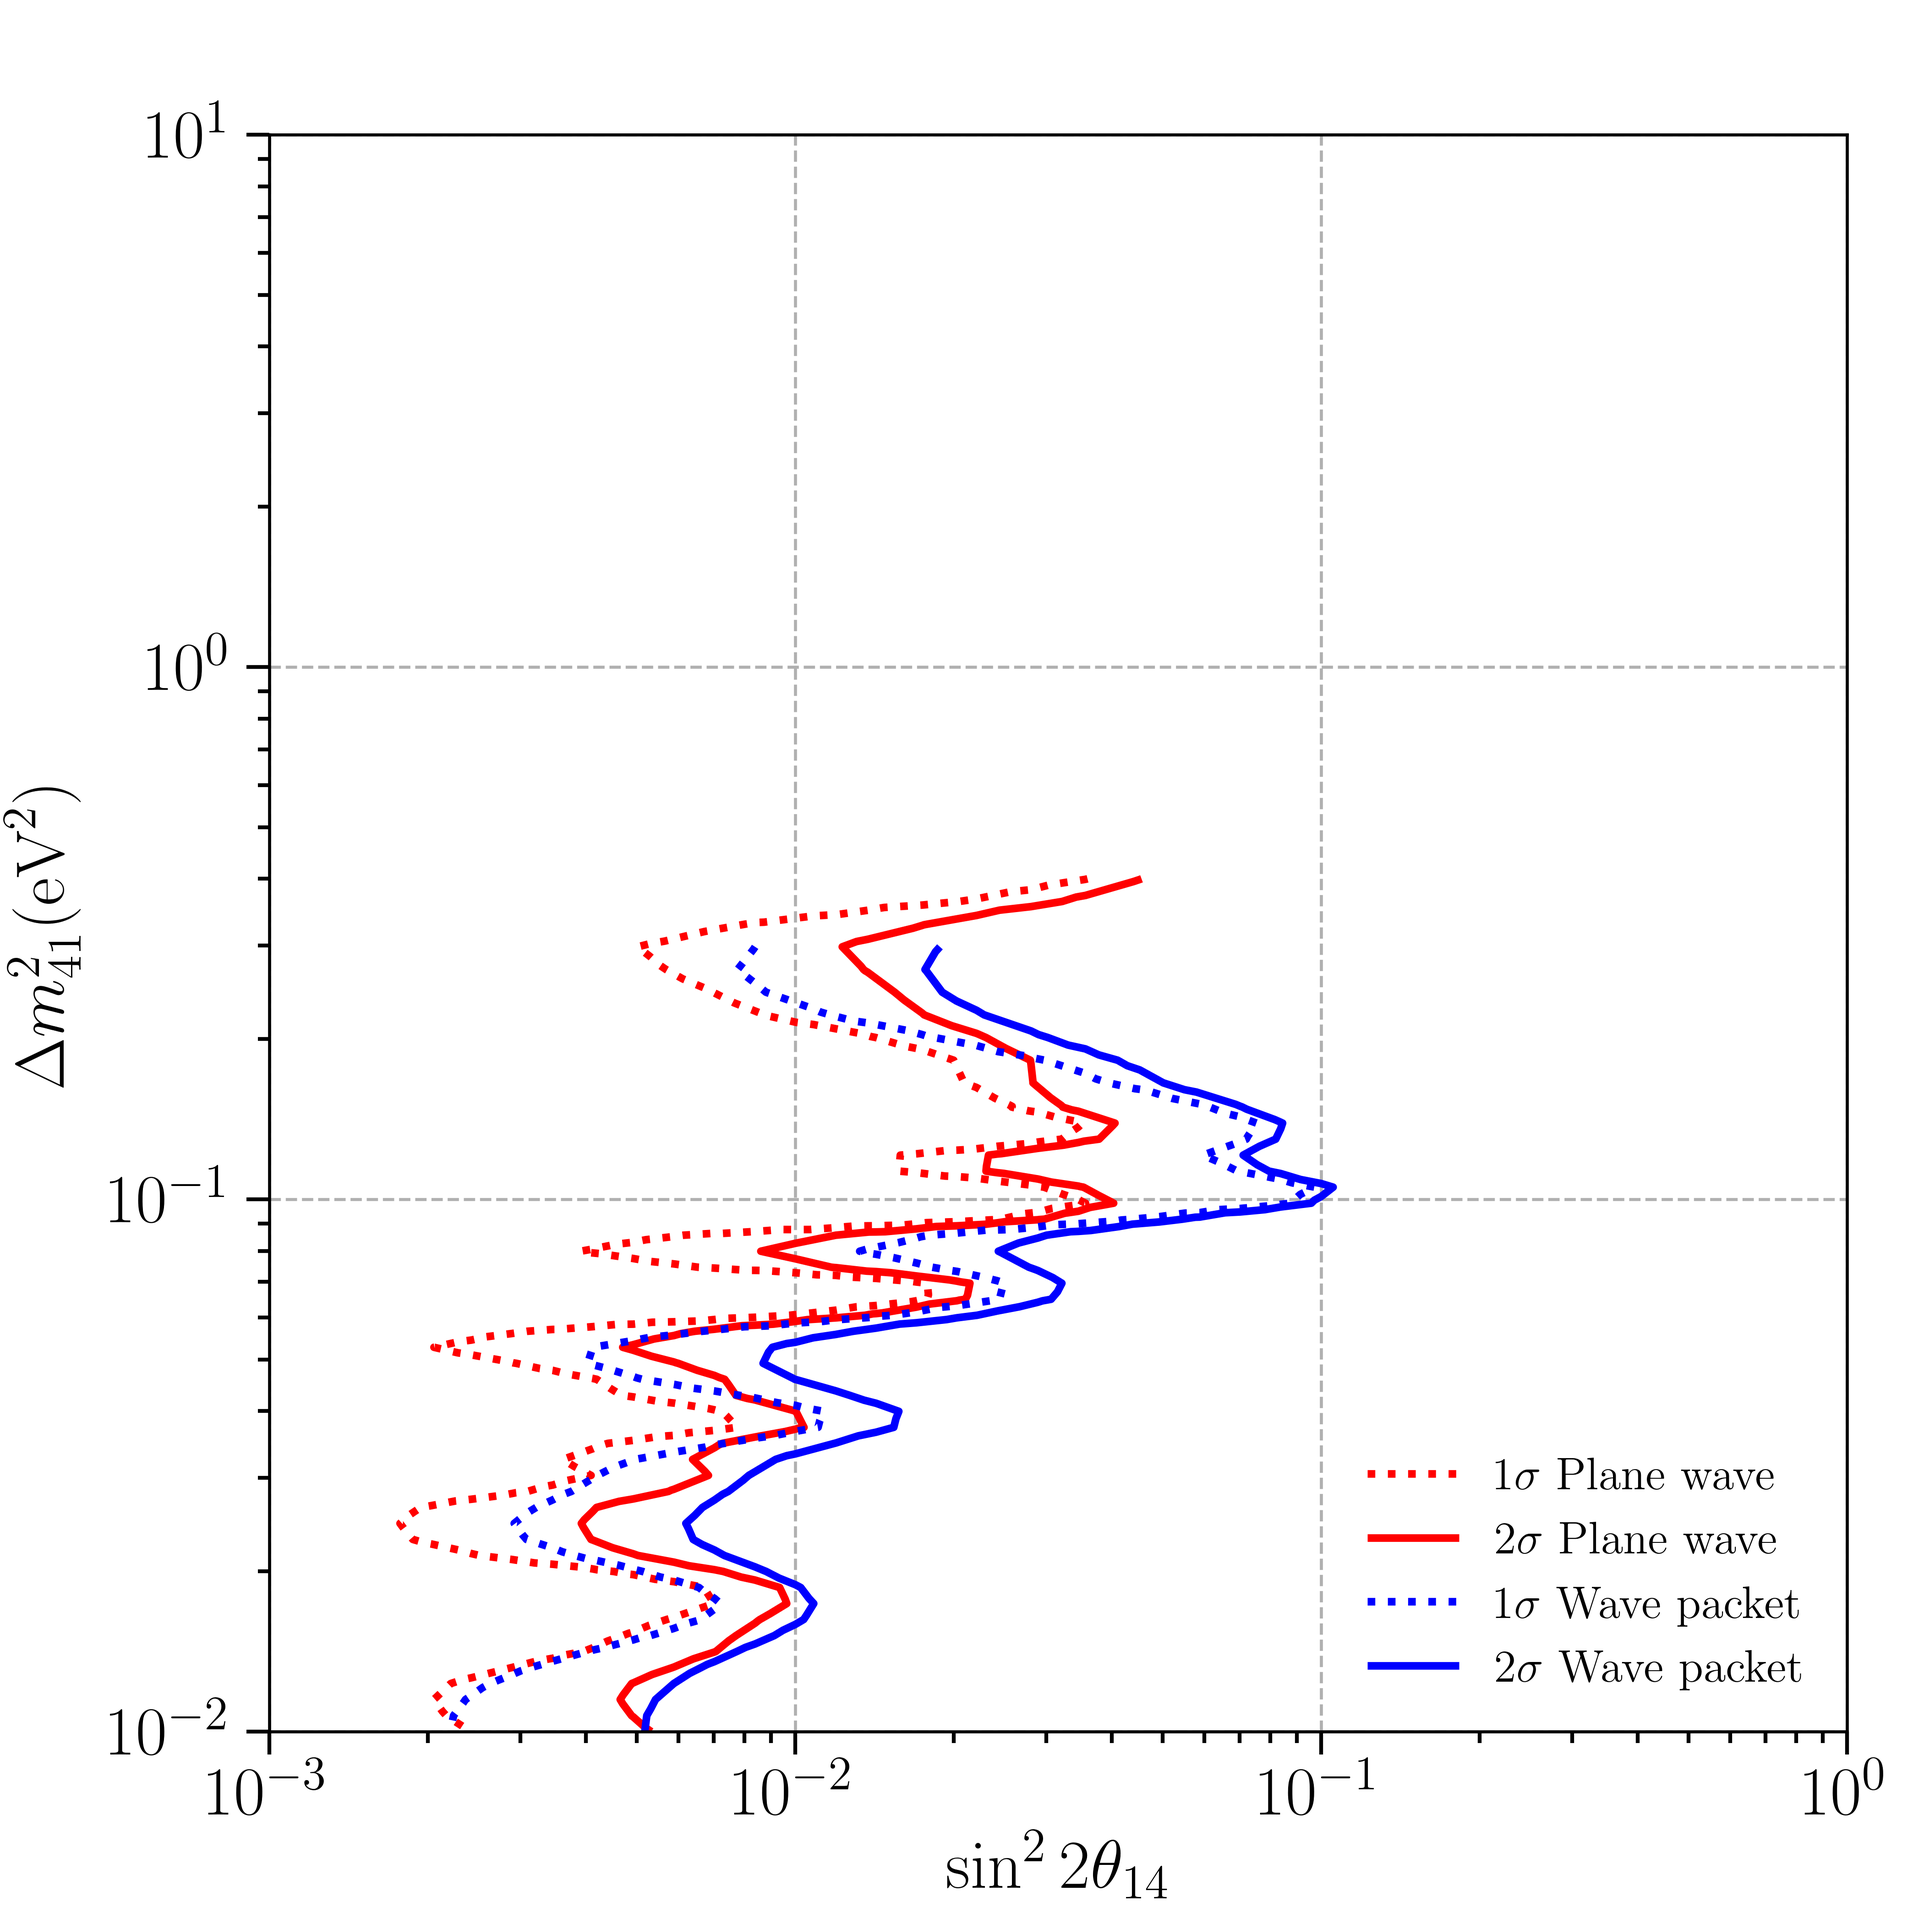
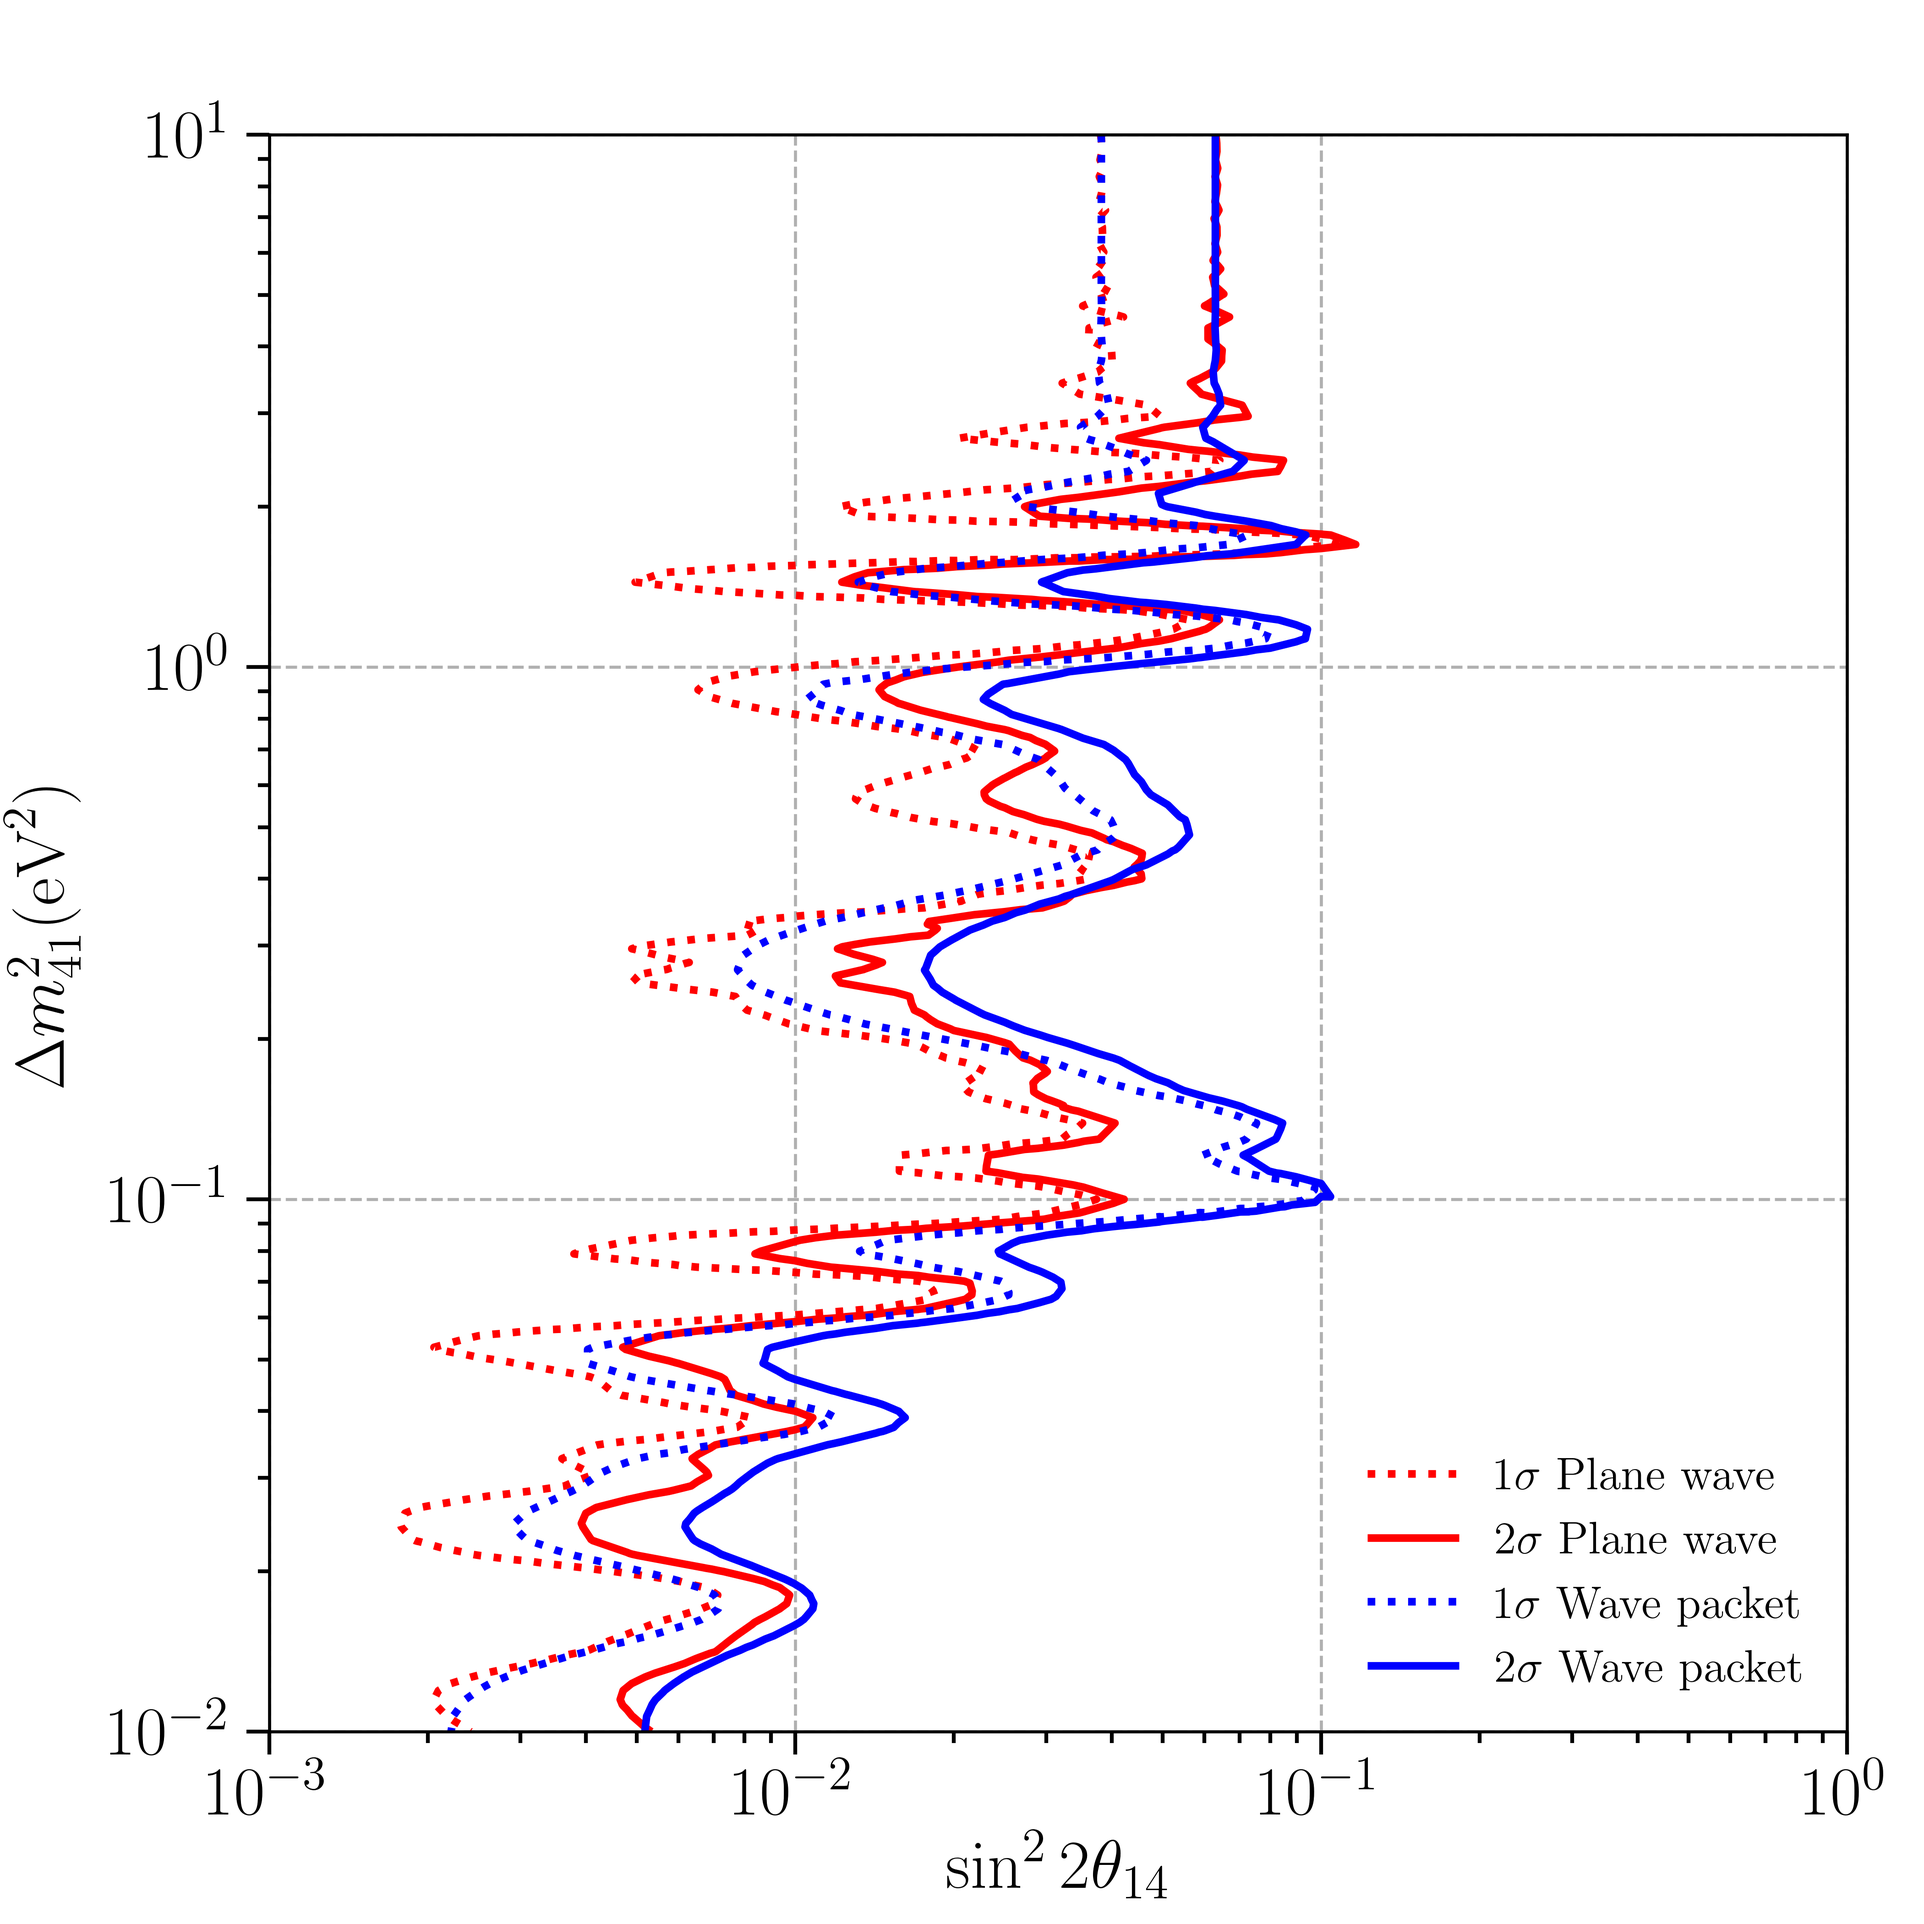
Corrected global fit nuissances. Contour plots to be updated.

diff --git a/GlobalFit/GlobalFit.py b/GlobalFit/GlobalFit.py
@@ -220,9 +220,22 @@ class GlobalFit:
         return vinv
 
 
+    def get_expectation_SM(self,wave_packet = False):
+        if wave_packet == False:
+            modelSM = Models.PlaneWaveSM()
+        if wave_packet == True:
+            modelSM = Models.WavePacketSM()
+
+        exp_events_SM = self.get_predicted_obs(modelSM)
+        nuissances_SM = self.get_nuissance_parameters(exp_events_SM)
+        exp_events_SM = dict([(set_name,exp_events_SM[set_name]*nuissances_SM[set_name]+self.PredictedBackground[set_name])
+                                   for set_name in self.sets_names])
+        return exp_events_SM
+
+
     def get_chi2(self,model, integrate_DB = False, integrate_NEOS = False,
                              average_DB = False, average_NEOS = False,
-                             tupled = False):
+                             exp_events_SM = None):
         """
         Input: a  model with which to compute expectations.
         Output: a chi2 statistic comparing data and expectations.
@@ -242,28 +255,24 @@ class GlobalFit:
             k = Data[set_name]
             TotalLogPoisson += np.sum(k - lamb + k*np.log(lamb/k))
 
-        # For NEOS, we need to fit the ratio. Therefore, we need the expectation from SM.
-        # However, the nuissances must be the ones from the sterile expectation.
-        modelSM = Models.PlaneWaveSM()
-        exp_events_NEOSSM = self.NEOSexp.get_expectation_unnorm_nobkg(modelSM,
-                                    do_we_integrate = integrate_NEOS, do_we_average = average_NEOS,
-                                    custom_bins = self.DataAllBinEdges['NEOS'])
-        # The question here is: is it necessary to compute this previous events every time, or can we tabulate it?
-        exp_events_NEOSSM = exp_events_NEOSSM['NEOS']*nuissances['NEOS']+self.PredictedBackground['NEOS']
+        if exp_events_SM == None:
+            exp_events_SM = self.get_expectation_SM()
 
         Vinv = self.get_inverse_covariance_matrix()['NEOS']
-        teo = exp_events['NEOS']/exp_events_NEOSSM
+        teo = exp_events['NEOS']/exp_events_SM['NEOS']
         ratio = self.NEOSRatioData
 
         chi2_ratio = (teo-ratio).dot(Vinv.dot(teo-ratio))
         return -2*TotalLogPoisson+chi2_ratio
 
 
+
+
 # TO PLOT STUFF
 # ......................................
 
     def get_expectation_ratio_and_chi2(self,model, integrate_DB = False, integrate_NEOS = False,
-                             average_DB = False, average_NEOS = False):
+                             average_DB = False, average_NEOS = False, exp_events_SM = None):
         """
         Input: a  model with which to compute expectations.
         Output: a chi2 statistic comparing data and expectations.
@@ -273,7 +282,6 @@ class GlobalFit:
         nuissances = self.get_nuissance_parameters(exp_events)
         exp_events = dict([(set_name,exp_events[set_name]*nuissances[set_name]+self.PredictedBackground[set_name])
                                    for set_name in self.sets_names])
-
         Data = self.ObservedData
 
         # For DB, the Poisson likelihood is sufficient.
@@ -283,18 +291,14 @@ class GlobalFit:
             k = Data[set_name]
             AllChi2.append(-2*np.sum(k - lamb + k*np.log(lamb/k)))
 
-        # For NEOS, we need to fit the ratio. Therefore, we need the expectation from SM.
-        # However, the nuissances must be the ones from the sterile expectation.
-        modelSM = Models.PlaneWaveSM()
-        exp_events_NEOSSM = self.NEOSexp.get_expectation_unnorm_nobkg(modelSM,
-                                    do_we_integrate = integrate_NEOS, do_we_average = average_NEOS,
-                                    custom_bins = self.DataAllBinEdges['NEOS'])
-        # The question here is: is it necessary to compute this previous events every time, or can we tabulate it?
-        exp_events_NEOSSM = exp_events_NEOSSM['NEOS']*nuissances['NEOS']+self.PredictedBackground['NEOS']
+        # For NEOS, we need to fit the ratio. Therefore, we need the expectation from the null hypothesis (SM).
+        if exp_events_SM == None:
+            exp_events_SM = self.get_expectation_SM()
+        # It might be more useful to tabulate this and not compute it every time.
 
         Vinv = self.get_inverse_covariance_matrix()['NEOS']
-        teo = exp_events['NEOS']/exp_events_NEOSSM
+        teo = exp_events['NEOS']/exp_events_SM['NEOS']
         ratio = self.NEOSRatioData
 
         AllChi2.append((teo-ratio).dot(Vinv.dot(teo-ratio)))
-        return (exp_events,exp_events['NEOS']/exp_events_NEOSSM,AllChi2)
+        return (exp_events,teo,AllChi2)

diff --git a/GlobalFit/SterileFit.py b/GlobalFit/SterileFit.py
@@ -24,8 +24,8 @@ class StandardModelGlobalFit:
         every bin from every detector in the global fit, for a given square mass and mixing.
 
         Input:
-        mass: the value of Delta m^2_{41} of the sterile neutrino.
-        angl: the value of sin^2(2theta_{41})
+        mass: the value of Delta m^2_{31} of the sterile neutrino.
+        angl: the value of sin^2(2theta_{13})
 
         Output: (float) the chi2 value.
         """
@@ -43,8 +43,8 @@ class StandardModelGlobalFit:
         Writes a square table with the chi2 values of different masses and angles in a file.
 
         Input:
-        mass_ax (array/list): the values of Delta m^2_{41}.
-        angl_ax (array/list): the values of sin^2(2theta_{41})
+        mass_ax (array/list): the values of Delta m^2_{31}.
+        angl_ax (array/list): the values of sin^2(2theta_{13})
         filename (str): the name of the file in which to write the table.
         """
         file = open(filename,'w')
@@ -63,6 +63,7 @@ class SterileGlobalFit:
         # according to the wave packet formalism or not (plane wave).
         self.WavePacket = wave_packet
         self.fitter = GF.GlobalFit()
+        self.SMExpectation = self.fitter.get_expectation_SM(wave_packet = wave_packet)
 
     def what_do_we_do(self,mass):
         """
@@ -106,7 +107,8 @@ class SterileGlobalFit:
 
         wdwd = self.what_do_we_do(mass)
         chi2 = self.fitter.get_chi2(model,integrate_DB = wdwd['DB']['integrate'], integrate_NEOS = wdwd['NEOS']['integrate'],
-                                             average_DB = wdwd['DB']['average'],     average_NEOS = wdwd['NEOS']['average'])
+                                            average_DB = wdwd['DB']['average'],     average_NEOS = wdwd['NEOS']['average'],
+                                            exp_events_SM = self.SMExpectation)
         print(mass,angl,chi2)
         return chi2
 

diff --git a/GlobalFit/EventExpectationPlots.py b/GlobalFit/EventExpectationPlots.py
@@ -25,8 +25,8 @@ Model_osc = Models.PlaneWaveSM()
 Model_coh = Models.WavePacketSM()
 
 # Sterile parameters
-sin2 = 0.06
-dm2 = 0.5
+sin2 = 0.2*0
+dm2 = 6.0*0
 Model_ste = Models.PlaneWaveSterile(Sin22Th14 = sin2, DM2_41 = dm2)
 
 
@@ -175,13 +175,19 @@ figNEOS.savefig("Figures/NEOSRatio/NEOSRatio_%.2f_%.3f_ste.png"%(dm2,sin2))
 
 axis = [[1.3,6.9,0.,1.5],[1.3,6.9,0.,2.],[1.3,6.9,0.,5.5],[1.3,6.9,0.,0.6]]
 
+Vinv = fitter.get_inverse_covariance_matrix()['NEOS']
+# NEOSchi2 = np.array([(ratio-fitter.NEOSRatioData)[i]*Vinv[:,i].dot(ratio-fitter.NEOSRatioData) for i in range(fitter.n_bins['NEOS'])])
+NEOSchi2 = (ratio-fitter.NEOSRatioData)**2*np.diag(Vinv)
 
 figchi,axchi = plt.subplots(1,4,figsize = (25,8),gridspec_kw=dict(left=0.05, right=0.98,bottom=0.1, top=0.91))
 for i in range(4):
     set = fitter.sets_names[i]
     data = fitter.ObservedData[fitter.sets_names[i]]
     evex = pred[fitter.sets_names[i]]
-    axchi[i].bar(x_ax[set],-2*(data-evex+data*np.log(evex/data)),width = 3/4*deltaE[set])
+    if set == 'NEOS':
+        axchi[i].bar(x_ax[set],NEOSchi2, width = 3/4*deltaE[set]) #doesn't include correlations
+    else:
+        axchi[i].bar(x_ax[set],-2*(data-evex+data*np.log(evex/data)),width = 3/4*deltaE[set])
     # axev[i].scatter(x_ax,pred[1][DB_test.sets_names[i]][:,0]/deltaE/1.e5,marker="+",color = "blue", label = "Our no oscillations")
     # axev[i].scatter(x_ax,DB_test.AllData[DB_test.sets_names[i]][:,5]/deltaE/1.e5,marker="+",color = "red", label = "DB no oscillations")
     axchi[i].set_xlabel("Energy (MeV)", fontsize = 16)

diff --git a/NEOS/NEOS.py b/NEOS/NEOS.py
@@ -30,8 +30,8 @@ class Neos:
         # In principle, our analysis is flux-free, i.e. independent of the flux.
         # Therefore, the total normalisation of the flux is not important.
         # However, we consider an arbitrary large number of targets to prevent very small event expectations.
-        self.TotalNumberOfProtonsHM = 9.74503e51#/180*(180-46)#4.76567e50
-        self.TotalNumberOfProtonsDB = 1.06406e06
+        self.TotalNumberOfProtonsHM = 9.74503e51#*180/(180-46)#4.76567e50
+        self.TotalNumberOfProtonsDB = 1.06406e06#*180/(180-46)
 
         self.sets_names = NEOSP.exp_names
         self.reactor_names = NEOSP.reac_names

diff --git a/GlobalFit/FitPlots.py b/GlobalFit/FitPlots.py
@@ -91,7 +91,7 @@ print('Null hyp chi2: ',null_hyp_PW)
 
 # PLOT WITH RESPECT TO THE BEST FIT
 # ----------------------------------
-figBF,axBF = plt.subplots(figsize = (7,7))
+figBF,axBF = plt.subplots(figsize = size,gridspec_kw=margins)
 
 conts = axBF.tricontour(data_PW[:,1],data_PW[:,0],(data_PW[:,2]-bestfit[2]),levels = [2.30,6.18,11.83])
 axBF.scatter(bestfit[1],bestfit[0],marker = '+', label = r'Best fit')
@@ -134,7 +134,6 @@ print('Best fit values and chi2: ',bestfit)
 
 # We find which is the chi2 of the null hypothesis
 null_hyp_WP = getChi2(0,0, wave_packet = True)
-null_hyp_WP = 114.57
 print('Null hyp chi2: ',null_hyp_WP)
 
 

diff --git a/GlobalFit/SterileFit2.py b/GlobalFit/SterileFit2.py
@@ -11,8 +11,8 @@ import time
        #              1.49255018, 1.55653058, 1.62325359, 1.69283678, 1.76540275,
        #              1.84107938, 1.92      ]
 
-datmass1 = np.logspace(np.log10(0.15),np.log10(0.4),11)
-datangl1 = np.logspace(-3,0,30)
+datmass1 = np.logspace(np.log10(0.15),np.log10(0.99),30)
+datangl1 = np.logspace(np.log10(4e-3),np.log10(4e-1),25)
 
 
 

diff --git a/GlobalFit/WPSterileFit2.py b/GlobalFit/WPSterileFit2.py
@@ -11,8 +11,8 @@ import time
        #              1.49255018, 1.55653058, 1.62325359, 1.69283678, 1.76540275,
        #              1.84107938, 1.92      ]
 
-datmass1 = np.logspace(np.log10(0.15),np.log10(0.4),11)
-datangl1 = np.logspace(-3,0,30)
+datmass1 = np.logspace(np.log10(0.15),np.log10(0.99),25)
+datangl1 = np.logspace(np.log10(4e-3),np.log10(4e-1),25)
 
 
 

diff --git a/GlobalFit/SterileFit1.py b/GlobalFit/SterileFit1.py
@@ -11,8 +11,8 @@ import time
        #              1.49255018, 1.55653058, 1.62325359, 1.69283678, 1.76540275,
        #              1.84107938, 1.92      ]
 
-datmass1 = np.logspace(-2,-1,20)
-datangl1 = np.logspace(-3,-1.8,15)
+datmass1 = np.logspace(-2,np.log10(0.149),40)
+datangl1 = np.logspace(-3,np.log10(0.25),32)
 
 
 

diff --git a/GlobalFit/WPSterileFit1.py b/GlobalFit/WPSterileFit1.py
@@ -11,8 +11,8 @@ import time
        #              1.49255018, 1.55653058, 1.62325359, 1.69283678, 1.76540275,
        #              1.84107938, 1.92      ]
 
-datmass1 = np.logspace(-2,-1,20)
-datangl1 = np.logspace(-3,-1.8,15)
+datmass1 = np.logspace(-2,np.log10(0.149),40)
+datangl1 = np.logspace(-3,np.log10(0.25),32)
 
 
 
